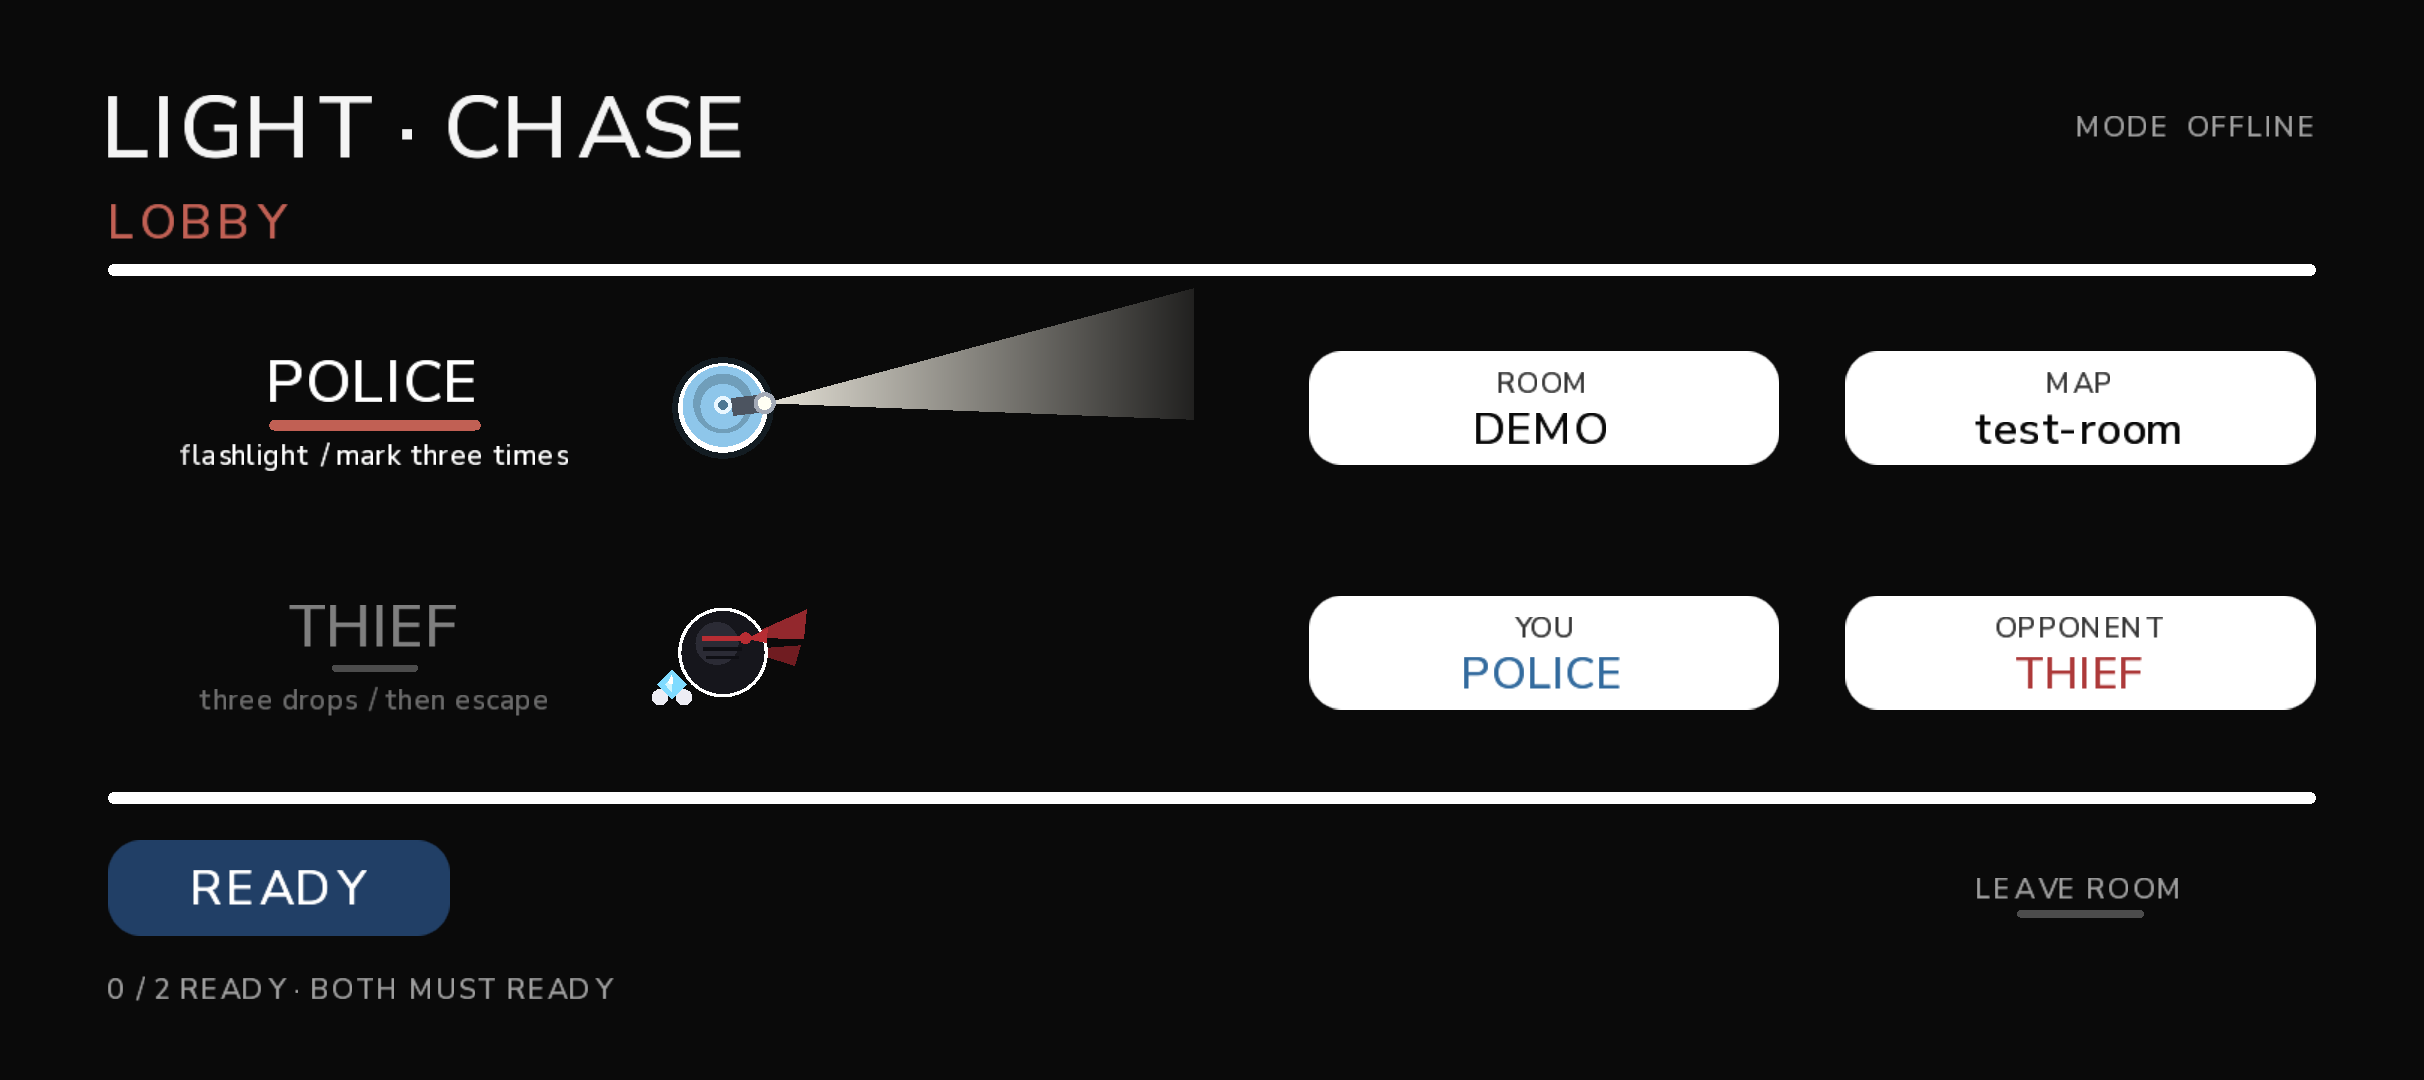
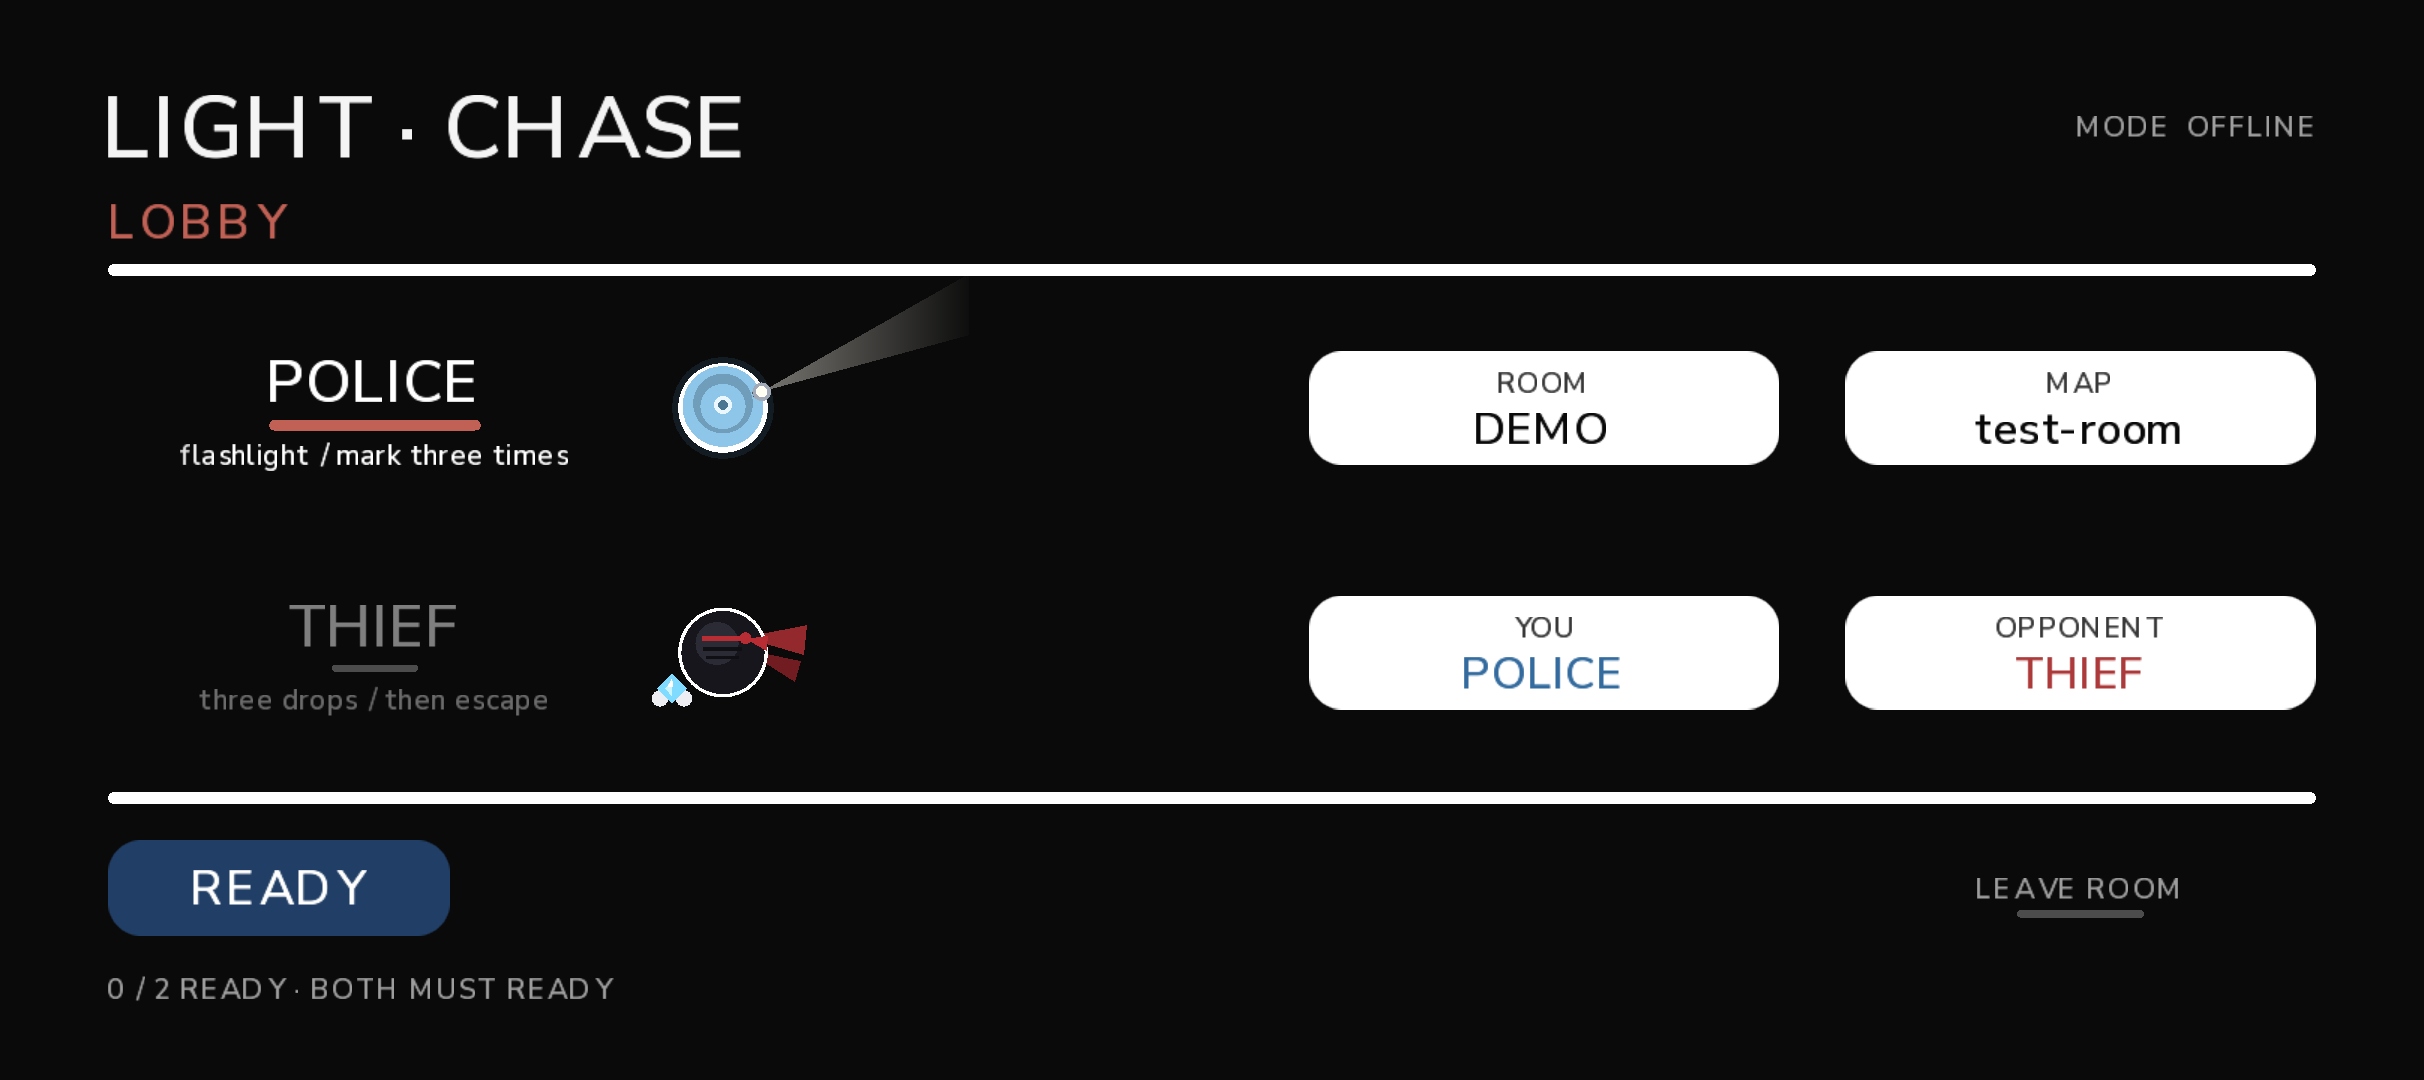
ui: police turns before lighting, rounded lamp, beam back to its old size

Changed region(s): [[0.2785, 0.275, 0.495, 0.3972], [0.3094, 0.55, 0.3403, 0.6417]]

diff --git a/client-core/src/main/java/com/lightchase/client/LightChaseApp.java b/client-core/src/main/java/com/lightchase/client/LightChaseApp.java
@@ -1354,12 +1354,11 @@ public final class LightChaseApp extends ApplicationAdapter {
      * beam is strongest at the lens.
      */
     private void lobbyPoliceIcon(ShapeRenderer shapes, float cx, float cy) {
-        float sel = UiAnim.smooth(selectPolice);
-        // Two resting poses. Not chosen: the head is turned towards the role name it belongs to,
-        // sweeping gently around it, with the lamp off. Chosen: it relaxes and looks around away
-        // from the text - the beam must never wash over "POLICE".
-        float base = UiAnim.lerp((float) Math.PI, 0.12f, sel);
-        float sway = UiAnim.sway(lobbyClock, 0.75f) * (0.16f + 0.12f * sel);
+        // Two resting poses. Not chosen: the head is turned towards the role name, sweeping gently
+        // around it, lamp off. Chosen: it turns away first and only then switches the lamp on.
+        float facing = UiAnim.smooth(turn);
+        float base = UiAnim.lerp((float) Math.PI, 0.12f, facing);
+        float sway = UiAnim.sway(lobbyClock, 0.75f) * (0.16f + 0.12f * facing);
         float angle = base + sway;
 
         float c = (float) Math.cos(angle);
@@ -1380,25 +1379,26 @@ public final class LightChaseApp extends ApplicationAdapter {
 
         policeCap(shapes, cx, cy, angle);
 
-        // The lamp is part of the silhouette, not an outline: it is drawn after the rim and simply
-        // overlaps it, the way the thief's scarf overlaps its hood.
-        float bx = cx + c * 6f;
-        float by = cy + s * 6f;
+        // The lamp is a smooth bump, not a barrel: a rounded neck and one lens, drawn after the rim
+        // so it simply overlaps it the way the thief's scarf overlaps its hood.
+        float nx = cx + c * (ICON_R - 5f);
+        float ny = cy + s * (ICON_R - 5f);
         shapes.setColor(0.30f, 0.33f, 0.38f, 1f);
-        shapes.rectLine(bx, by, lx, ly, 12f);
+        shapes.rectLine(nx, ny, lx, ly, 7f);
+        shapes.circle(nx, ny, 3.5f, 16);
         shapes.setColor(0.64f, 0.67f, 0.72f, 1f);
-        shapes.circle(lx, ly, 7.5f, 18);
-        shapes.setColor(1f, 1f, 0.96f, 0.20f + 0.80f * beamOn);
-        shapes.circle(lx, ly, 4.6f, 16);
+        shapes.circle(lx, ly, 6.2f, 20);
+        shapes.setColor(1f, 1f, 0.96f, 0.18f + 0.82f * beamOn);
+        shapes.circle(lx, ly, 3.8f, 16);
     }
 
     /** The beam: bright at the lens, fading out along its length, tapering to a soft end. */
     private void beamToText(ShapeRenderer shapes, float lx, float ly, float angle, float on) {
-        float full = 232f;
+        float full = 120f;
         float reach = full * on;
         float half = 0.30f;
-        float nearAlpha = 0.90f * on;
-        float farAlpha = 0.10f * on;
+        float nearAlpha = 0.45f * on;
+        float farAlpha = 0.02f * on;
 
         float ex = lx + (float) Math.cos(angle) * reach;
         float ey = ly + (float) Math.sin(angle) * reach;
@@ -1653,12 +1653,22 @@ public final class LightChaseApp extends ApplicationAdapter {
         selectPolice = UiAnim.approach(selectPolice, selectedRole == Role.POLICE ? 1f : 0f, dt, 5.5f);
         selectThief = UiAnim.approach(selectThief, selectedRole == Role.THIEF ? 1f : 0f, dt, 6f);
 
-        // The lamp is simply on or off. The head keeps facing the role name either way; only the
-        // sweep above needs a selection.
+        // Three beats, in both directions: turn the head first, then switch the lamp on. Lighting
+        // before the head has moved would shine the torch at whatever the cap happened to face.
         if (selectedRole == Role.POLICE) {
-            beamOn = UiAnim.approach(beamOn, 1f, dt, 3.2f);
+            if (toPoliceT < 0f) toPoliceT = 0f;
+            toPoliceT += dt;
+            fromPoliceT = -1f;
+            turn = UiAnim.clamp01((toPoliceT - 0.08f) / 0.30f);
+            beamOn = toPoliceT > 0.40f
+                    ? UiAnim.approach(beamOn, 1f, dt, 3.4f)
+                    : UiAnim.approach(beamOn, 0f, dt, 18f);
         } else {
-            beamOn = UiAnim.approach(beamOn, 0f, dt, 9f);
+            toPoliceT = -1f;
+            if (fromPoliceT < 0f) fromPoliceT = 0f;
+            fromPoliceT += dt;
+            beamOn = UiAnim.approach(beamOn, 0f, dt, 16f);
+            turn = 1f - UiAnim.clamp01((fromPoliceT - 0.04f) / 0.28f);
         }
 
 
